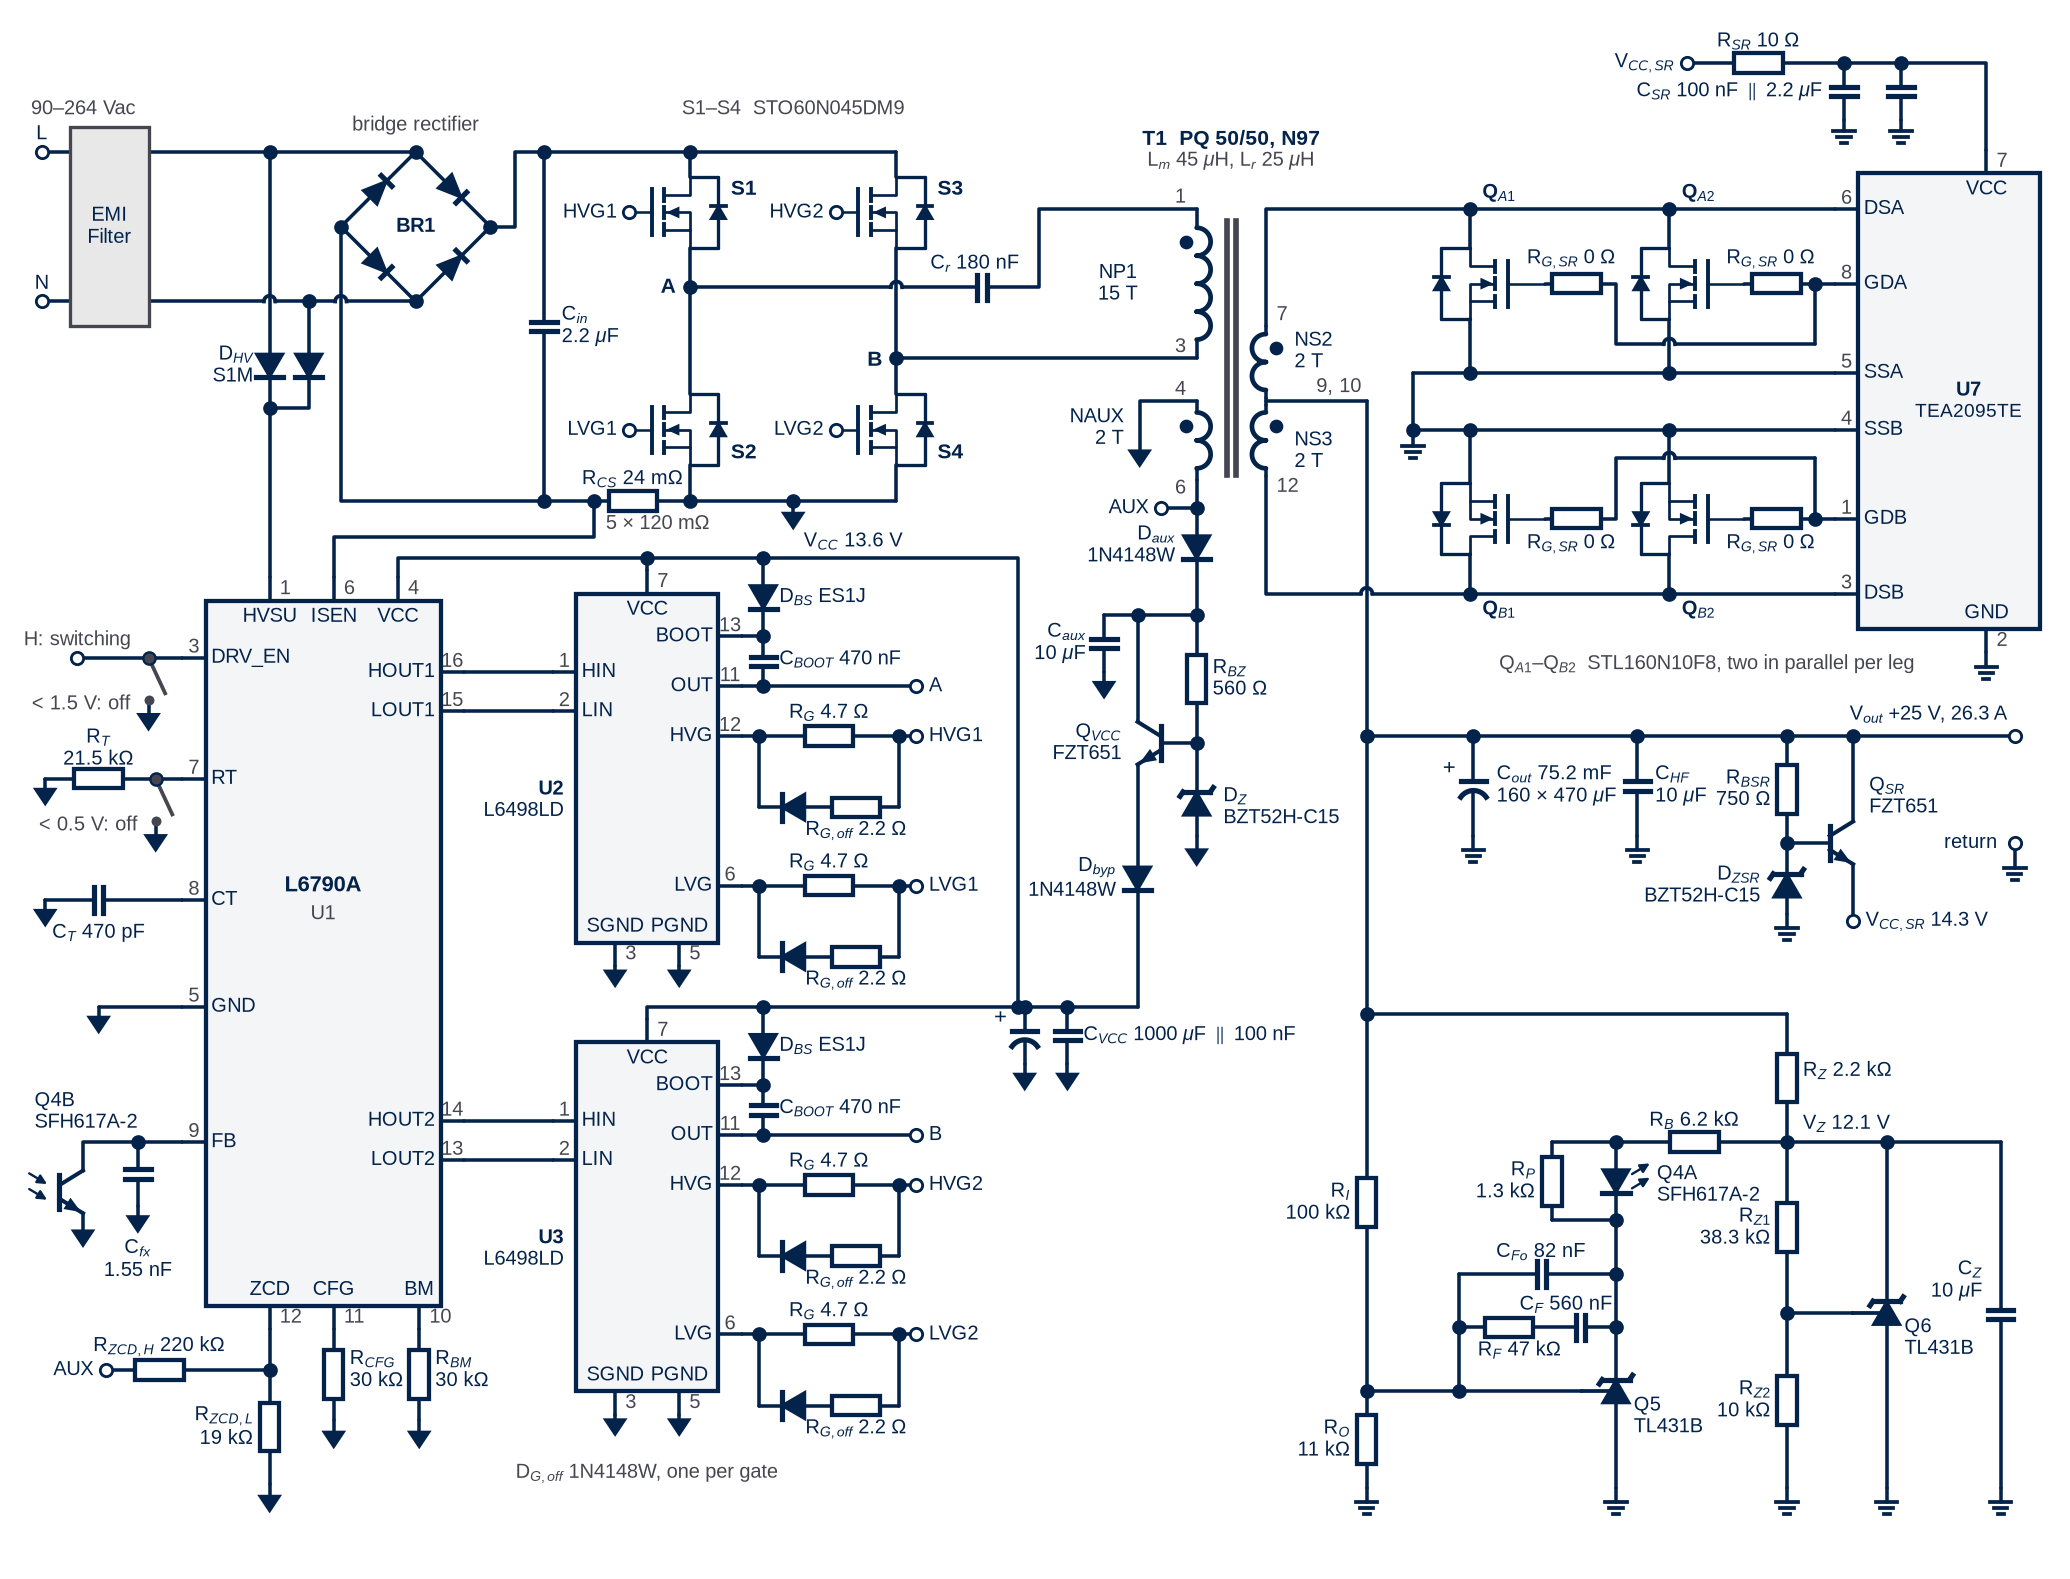
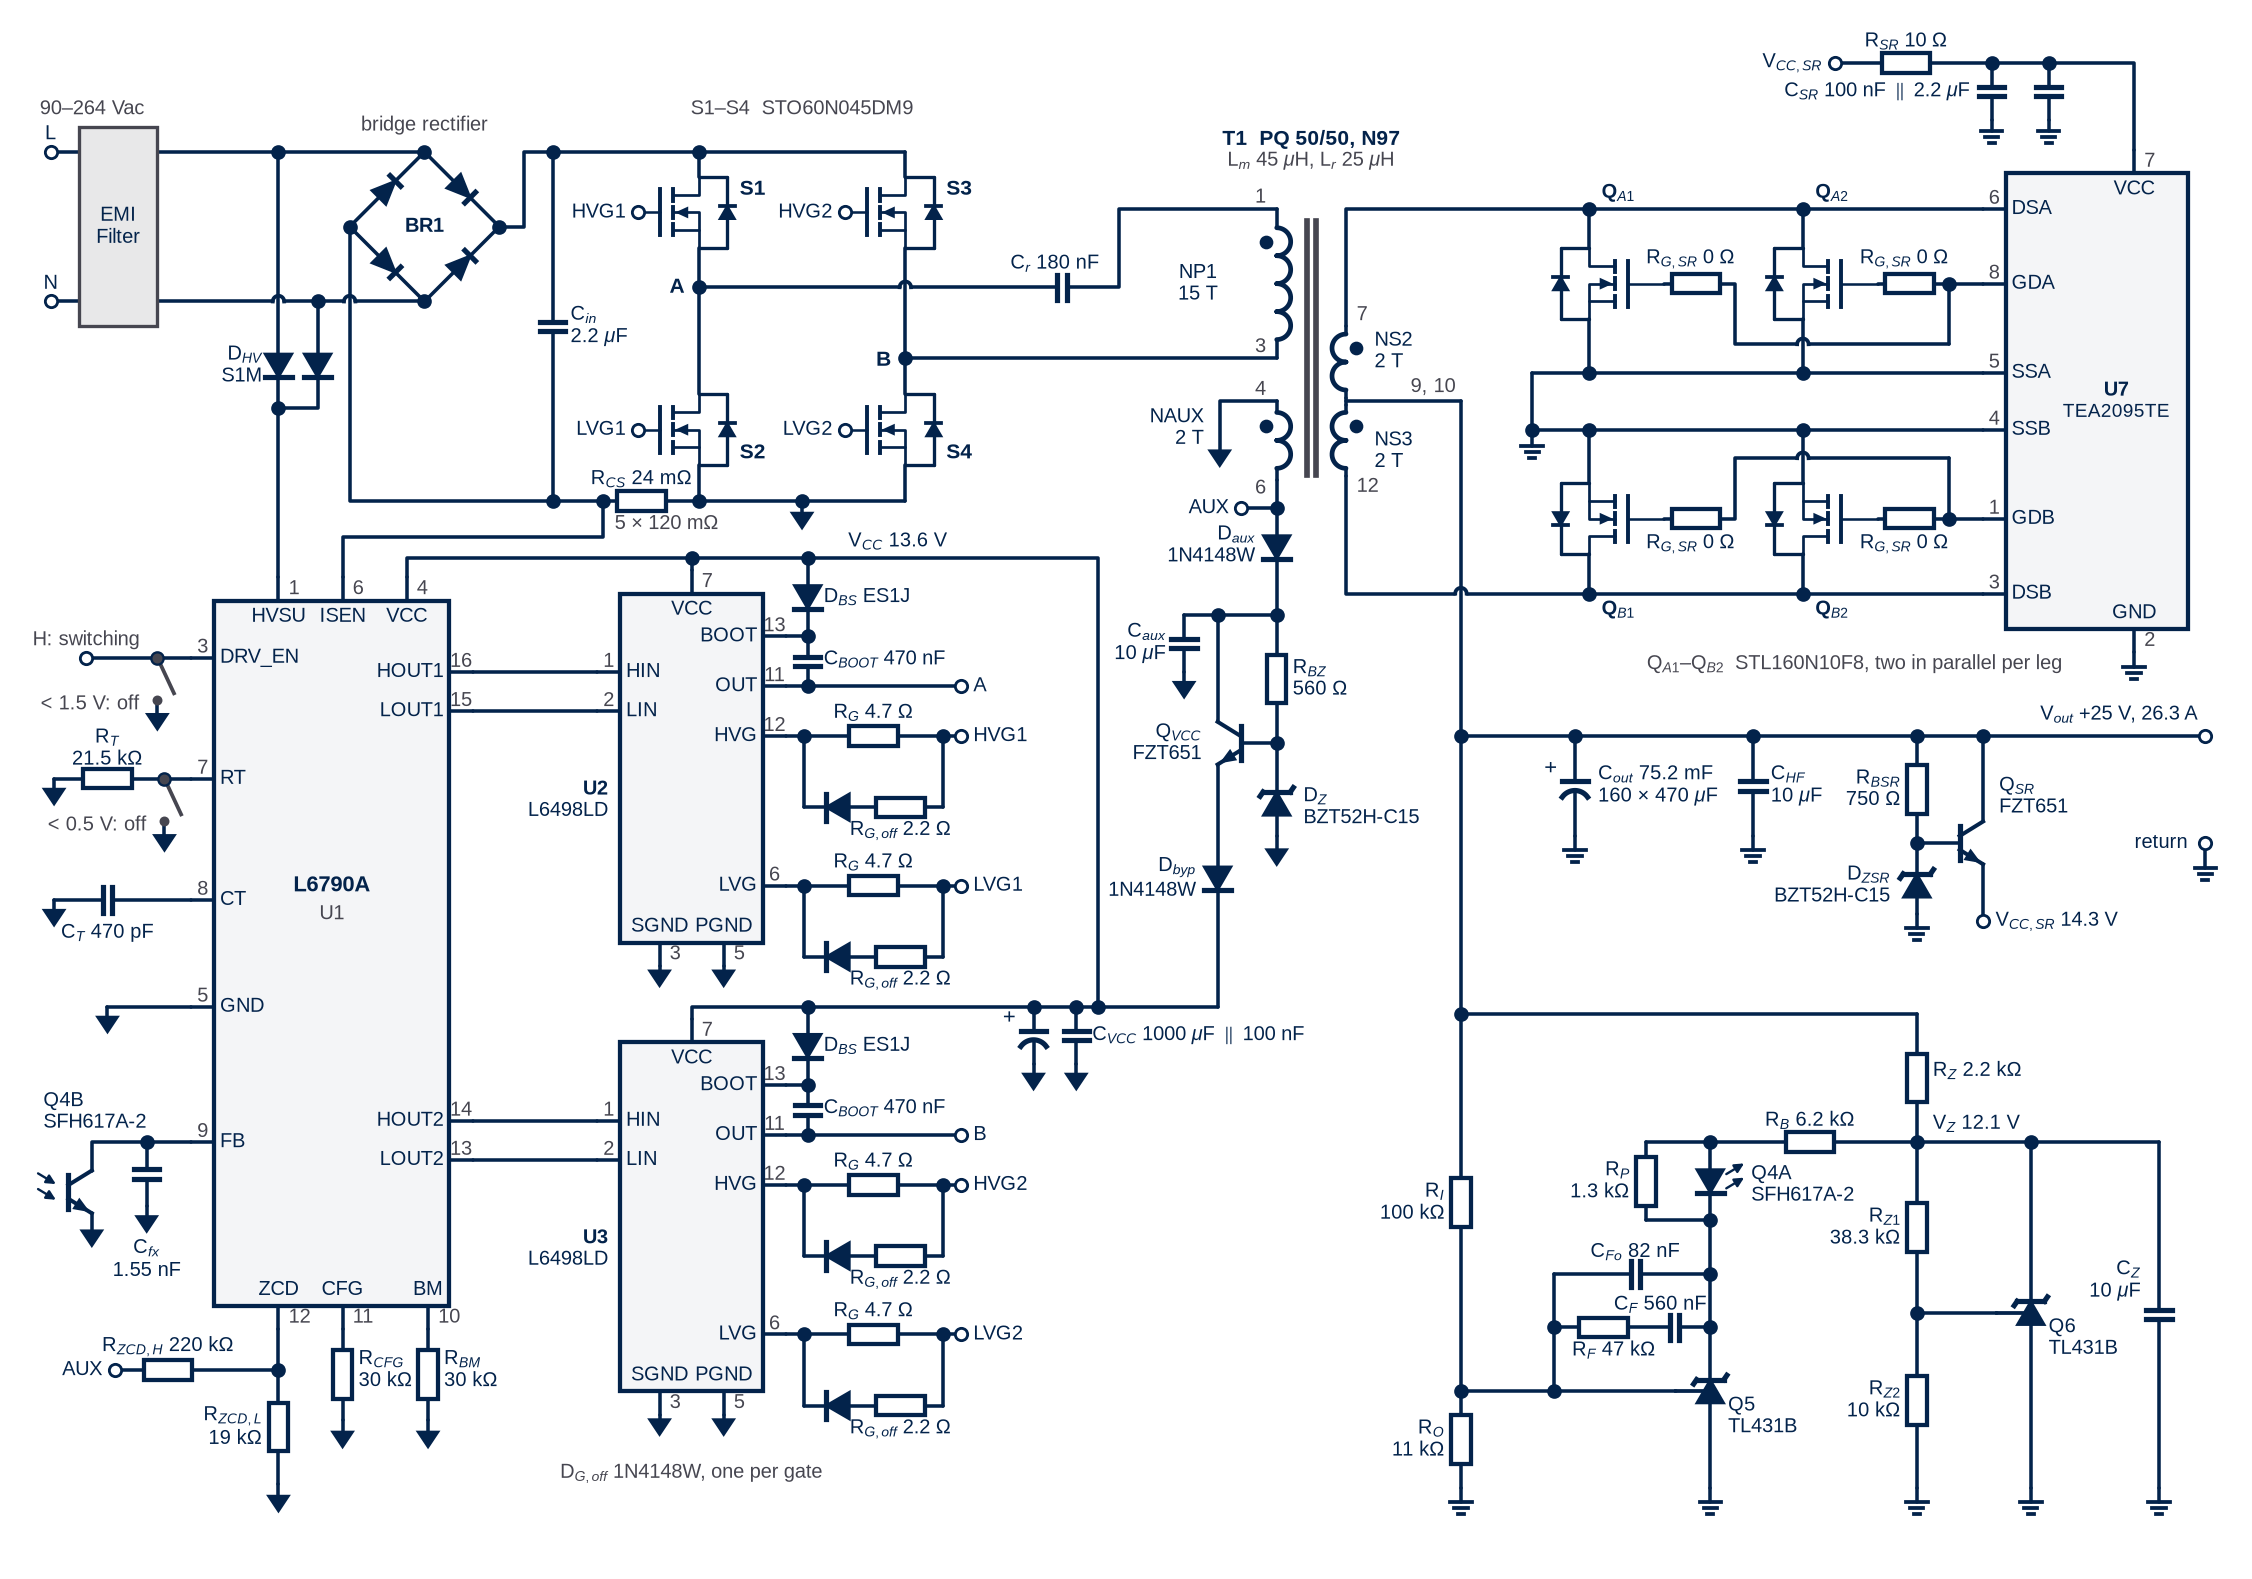
Round 84 (in progress): full schematic at the A4-landscape ratio — PNG 1.426 (text frame 672 x 471 pt); width 56.7 -> 61.9 with symbol multipliers held, the extra spread over the drivers (+1.0), the V_CC drop and T1 (+2.0) and the secondary (SR legs 6.0 apart, U7 1.0 off the edge, output and loop co
Claude-Session: https://claude.ai/code/session_01L3H8Na8buSZY2uPpuuSkn7

diff --git a/Design Guide/generators/figs_ref.py b/Design Guide/generators/figs_ref.py
@@ -4413,11 +4413,17 @@ def an_full(save, foot):
     import cores
     V = an_pdf.V
     _pm = cores.PINMAP
-    fig = plt.figure(figsize=(12.0, 9.1))
-    W, H = 56.7, 43.0                      # the top band holds U7's RC filter
-    ax = _ax(fig, [0.005, 0.005, 0.99, 0.99], 0.0, W, 0.0, H)
-    ax._sym_mult = 0.47
-    ax._xf_mult = 0.37                   # turns 0.8 x the two-sheet drawing's
+    #  A4 turned landscape: the text frame is 672 x 471 pt (1.426).  The
+    #  PNG is the axes box plus save()'s 0.14 in pad, and that is what the
+    #  page turns 90 degrees, so it is the PNG that keeps the ratio
+    #  (2026-10-04 user): (0.99 W_in + 0.28) / (0.99 x 9.1 + 0.28) = 1.426.
+    #  0.2116 in per unit; the drawing runs 0.1 to 61.1, centred by xlim.
+    W, H = 61.9, 43.0                      # the top band holds U7's RC filter
+    fig = plt.figure(figsize=(W * 12.0 / 56.7, 9.1))
+    ax = _ax(fig, [0.005, 0.005, 0.99, 0.99], -0.35, W - 0.35, 0.0, H)
+    ax._sym_mult = 0.47 * 56.7 / W        # symbols scale with the width;
+    #                                        keep the size drawn at 56.7
+    ax._xf_mult = 0.37 * 56.7 / W                   # turns 0.8 x the two-sheet drawing's
     ax._xf_clear = 0.45
     ax._diode_k = 0.8
     R = 0.16
@@ -4578,7 +4584,7 @@ def an_full(save, foot):
     S.label(ax, X1 - 0.4, YA, 'A', size=9.0, weight='bold', ha='right')
     S.wire(ax, [(X1, YA), (X2 - R, YA)])
     X.hop(ax, X2, YA, r=R)
-    XCR, XCN = 26.8, 28.4
+    XCR, XCN = 28.8, 30.4
     ca, cb = S.cap(ax, XCR, YA)
     S.wire(ax, [(X2 + R, YA), ca])
     S.label(ax, XCR - 0.2, YA + 0.65, 'C$_r$ ' + _c(_sv('C.r')), size=SZ)
@@ -4587,7 +4593,7 @@ def an_full(save, foot):
             ha='right')
 
     # ================================================= T1
-    XC = 33.8                              # T1: the line between the sides
+    XC = 35.8                              # T1: the line between the sides
     YT1 = 37.8                             # pin 1
     YS7 = 34.5                             # pin 7: NS2 + NS3 centred between
     #                                        the two SR drain buses (37.8, YG)
@@ -4724,12 +4730,12 @@ def an_full(save, foot):
         pg(x_, 3.8)
 
     # ================================================= drivers U2, U3
-    YV, XO, YO = 28.0, 27.8, 15.4
+    YV, XO, YO = 28.0, 29.8, 15.4
     W_, H_ = 4.0, 9.8                      # 0.9 x the first drawing's width;
     #                                        tall enough for the gate networks
     #                                        (R_G and the turn-off path) to
     #                                        sit apart from each other
-    XD = 15.4                              # everything hung off the box
+    XD = 16.4                              # everything hung off the box
 
     def driver(x0, y0, nm, leg):
         u = _ic(ax, x0, y0, x0 + W_, y0 + H_, 'L6498LD',
@@ -4802,7 +4808,7 @@ def an_full(save, foot):
     S.wire(ax, [u2['VCC'], (u2['VCC'][0], YV)])
     S.dot(ax, u2['VCC'][0], YV)
     S.wire(ax, [u3['VCC'], (u3['VCC'][0], YO), (XO, YO)])
-    S.label(ax, 23.2, YV + 0.45, 'V$_{CC}$ %.1f V' % _sv('V.CC_reg'), size=SZ)
+    S.label(ax, 24.2, YV + 0.45, 'V$_{CC}$ %.1f V' % _sv('V.CC_reg'), size=SZ)
     for xb_, ytop, by_ in ((xb2, YV, by2), (xb3, YO, by3)):
         yd = (ytop + by_) / 2.0
         da, dk = S.diode(ax, xb_, yd, horiz=False, flip=True)
@@ -4861,20 +4867,20 @@ def an_full(save, foot):
     #  pins sit at the bus heights and its SS pins at the source-bus
     #  heights, so each Kelvin wire is one straight run to the nearer
     #  MOSFET (Q_A2, Q_B2).
-    XV = 37.6                              # V_out: centre tap straight down
+    XV = 40.0                              # V_out: centre tap straight down
     S.wire(ax, [(xs, YCT), (XV, YCT)])
     S.label(ax, XV - 0.15, YCT + 0.4, '%d, %d' % (_pm['NS2'][1][0],
                                                    _pm['NS3'][0][0]),
             size=SN, color=GREY, ha='right')
     YDA, YCA_, YSA, HOPA = YT1, 35.7, 33.2, 34.0
     YDB, YCB, YSB, HOPB = 27.0, 29.1, 31.6, 30.8
-    XQ1, XQ2 = 40.5, 46.1
+    XQ1, XQ2 = 43.6, 49.6
     MGS = 2.1                              # gate lead: the resistor clear
     #                                        of the gate
     MOSS = dict(MOS, gate=MGS)
     xr1, xr2 = XQ1 + MGS + 0.9, XQ2 + MGS + 0.9
     XG = xr2 + 1.1                         # where the gate run splits
-    TX0, TX1 = XG + 1.2, XG + 6.3
+    TX0, TX1 = XG + 1.6, XG + 6.7
     TY0, TY1 = YDB - 1.0, YDA + 1.0        # room for the supply pins' names
     c = _ic(ax, TX0, TY0, TX1, TY1, 'TEA2095TE',
             [('L', YDA, 6, 'DSA'), ('L', YCA_, 8, 'GDA'),
@@ -4965,17 +4971,18 @@ def an_full(save, foot):
     YO2, YT = 23.0, 15.2
     S.wire(ax, [(XV, YCT), (XV, YT)])      # on down to R_I
     S.dot(ax, XV, YO2)
-    S.wire(ax, [(XV, YO2), (55.8, YO2)])
-    _term(ax, 55.8, YO2, MS)
-    S.label(ax, 55.6, YO2 + 0.6, 'V$_{out}$ +%.0f V, %.1f A'
+    XVT = 60.9                             # the output terminals
+    S.wire(ax, [(XV, YO2), (XVT, YO2)])
+    _term(ax, XVT, YO2, MS)
+    S.label(ax, XVT - 0.2, YO2 + 0.6, 'V$_{out}$ +%.0f V, %.1f A'
             % (V['Vout'], V['Iout']), size=SN, ha='right')
-    _term(ax, 55.8, 20.0, MS)
-    S.wire(ax, [(55.8, 20.0), (55.8, 19.3)])
-    sg(55.8, 19.3, 0.0)
-    S.label(ax, 55.3, 20.0, 'return', size=SN, ha='right')
-    for x, fn_, txt_ in ((40.6, ecap, 'C$_{out}$ %.1f mF\n%.0f × %.0f $\\mu$F'
+    _term(ax, XVT, 20.0, MS)
+    S.wire(ax, [(XVT, 20.0), (XVT, 19.3)])
+    sg(XVT, 19.3, 0.0)
+    S.label(ax, XVT - 0.5, 20.0, 'return', size=SN, ha='right')
+    for x, fn_, txt_ in ((43.2, ecap, 'C$_{out}$ %.1f mF\n%.0f × %.0f $\\mu$F'
                           % (_sv('C.out'), _sv('n.C'), _sv('C.single'))),
-                         (45.2, vcap, 'C$_{HF}$\n%.0f $\\mu$F'
+                         (48.2, vcap, 'C$_{HF}$\n%.0f $\\mu$F'
                           % _sv('C.ceramic'))):
         S.dot(ax, x, YO2)
         fn_(x, YO2, 20.2)
@@ -4983,7 +4990,7 @@ def an_full(save, foot):
         S.label(ax, x + (0.65 if fn_ is ecap else 0.5), 21.6, txt_, size=SZ,
                 ha='left')
     # the SR supply follower (14c.4)
-    XRB, XQB, YBS = 49.4, 50.6, 20.0
+    XRB, XQB, YBS = 52.8, 54.0, 20.0
     S.dot(ax, XRB, YO2)
     vres(XRB, YO2, YBS, 'R$_{BSR}$\n' + _r(_sv('R.BSR_sel')), side='l',
          yl=21.5)
@@ -5013,9 +5020,9 @@ def an_full(save, foot):
     vres(XRI, YREF, YGR, 'R$_O$\n' + _r(_sv('R.o') * 1e3), side='l')
     sg(XRI, YGR, 0.4)
     S.dot(ax, XRI, YREF)
-    XK = 44.6
+    XK = 47.0
     ta, tc, tr = _tl431(ax, XK, YREF)
-    XL_, YF1, YF2 = 40.2, 7.9, 6.4
+    XL_, YF1, YF2 = 42.6, 7.9, 6.4
     S.wire(ax, [(XRI, YREF), tr])
     S.dot(ax, XL_, YREF)
     S.wire(ax, [ta, (XK, YGR)])
@@ -5023,17 +5030,17 @@ def an_full(save, foot):
     S.label(ax, XK + 0.5, YREF - 0.7, 'Q5\nTL431B', size=SN, ha='left')
     S.wire(ax, [(XL_, YREF), (XL_, YF1)])
     S.dot(ax, XL_, YF2)
-    ca, cb = S.cap(ax, 42.5, YF1)
+    ca, cb = S.cap(ax, 44.9, YF1)
     S.wire(ax, [(XL_, YF1), ca])
     S.wire(ax, [cb, (XK, YF1)])
-    S.label(ax, 42.5, YF1 + 0.6, 'C$_{Fo}$ ' + _c(_sv('C.Fo')), size=SZ)
-    ra, rb = S.res(ax, 41.6, YF2)
-    ca, cb = S.cap(ax, 43.6, YF2)
+    S.label(ax, 44.9, YF1 + 0.6, 'C$_{Fo}$ ' + _c(_sv('C.Fo')), size=SZ)
+    ra, rb = S.res(ax, 44.0, YF2)
+    ca, cb = S.cap(ax, 46.0, YF2)
     S.wire(ax, [(XL_, YF2), ra])
     S.wire(ax, [rb, ca])
     S.wire(ax, [cb, (XK, YF2)])
-    S.label(ax, 41.9, YF2 - 0.65, 'R$_F$ ' + _r(_sv('R.F') * 1e3), size=SZ)
-    S.label(ax, 43.2, YF2 + 0.62, 'C$_F$ ' + _c(_sv('C.F')), size=SZ)
+    S.label(ax, 44.3, YF2 - 0.65, 'R$_F$ ' + _r(_sv('R.F') * 1e3), size=SZ)
+    S.label(ax, 45.6, YF2 + 0.62, 'C$_F$ ' + _c(_sv('C.F')), size=SZ)
     YLC, YLA = 9.4, 11.6
     S.wire(ax, [tc, (XK, YLC)])
     S.dot(ax, XK, YF1)
@@ -5056,7 +5063,7 @@ def an_full(save, foot):
     S.wire(ax, [(XK, YLC), (XPr, YLC)])
     vres(XPr, YLA, YLC, 'R$_P$\n' + _r(_sv('R.P') * 1e3), side='l')
     # the LED rail V_Z: R_Z from V_out, Q6 as a shunt regulator (16.1b)
-    XRB_, XRZ_, XU6, XCZ = 46.8, 49.4, 52.2, 55.4
+    XRB_, XRZ_, XU6, XCZ = 49.8, 52.8, 56.0, 59.6
     XZD = XRZ_                             # R_Z1 straight under R_Z
     S.wire(ax, [(XV, YT), (XRZ_, YT)])
     ra, rb = S.res(ax, XRB_, YLA)
